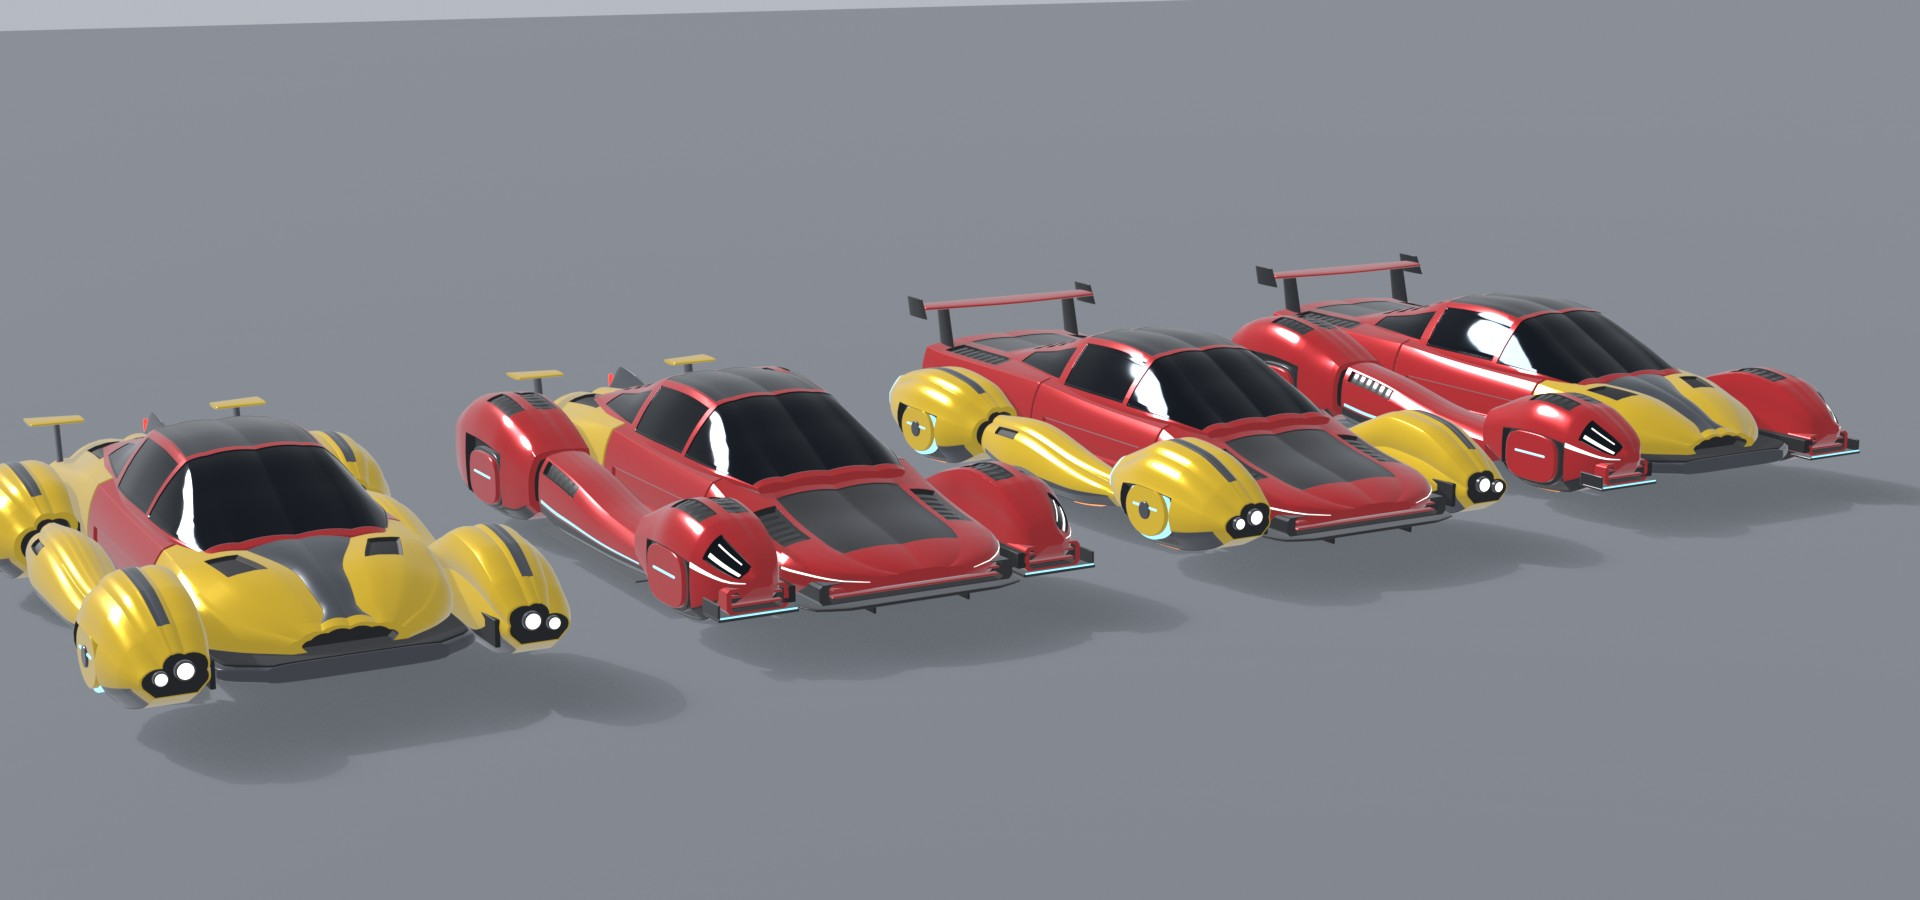
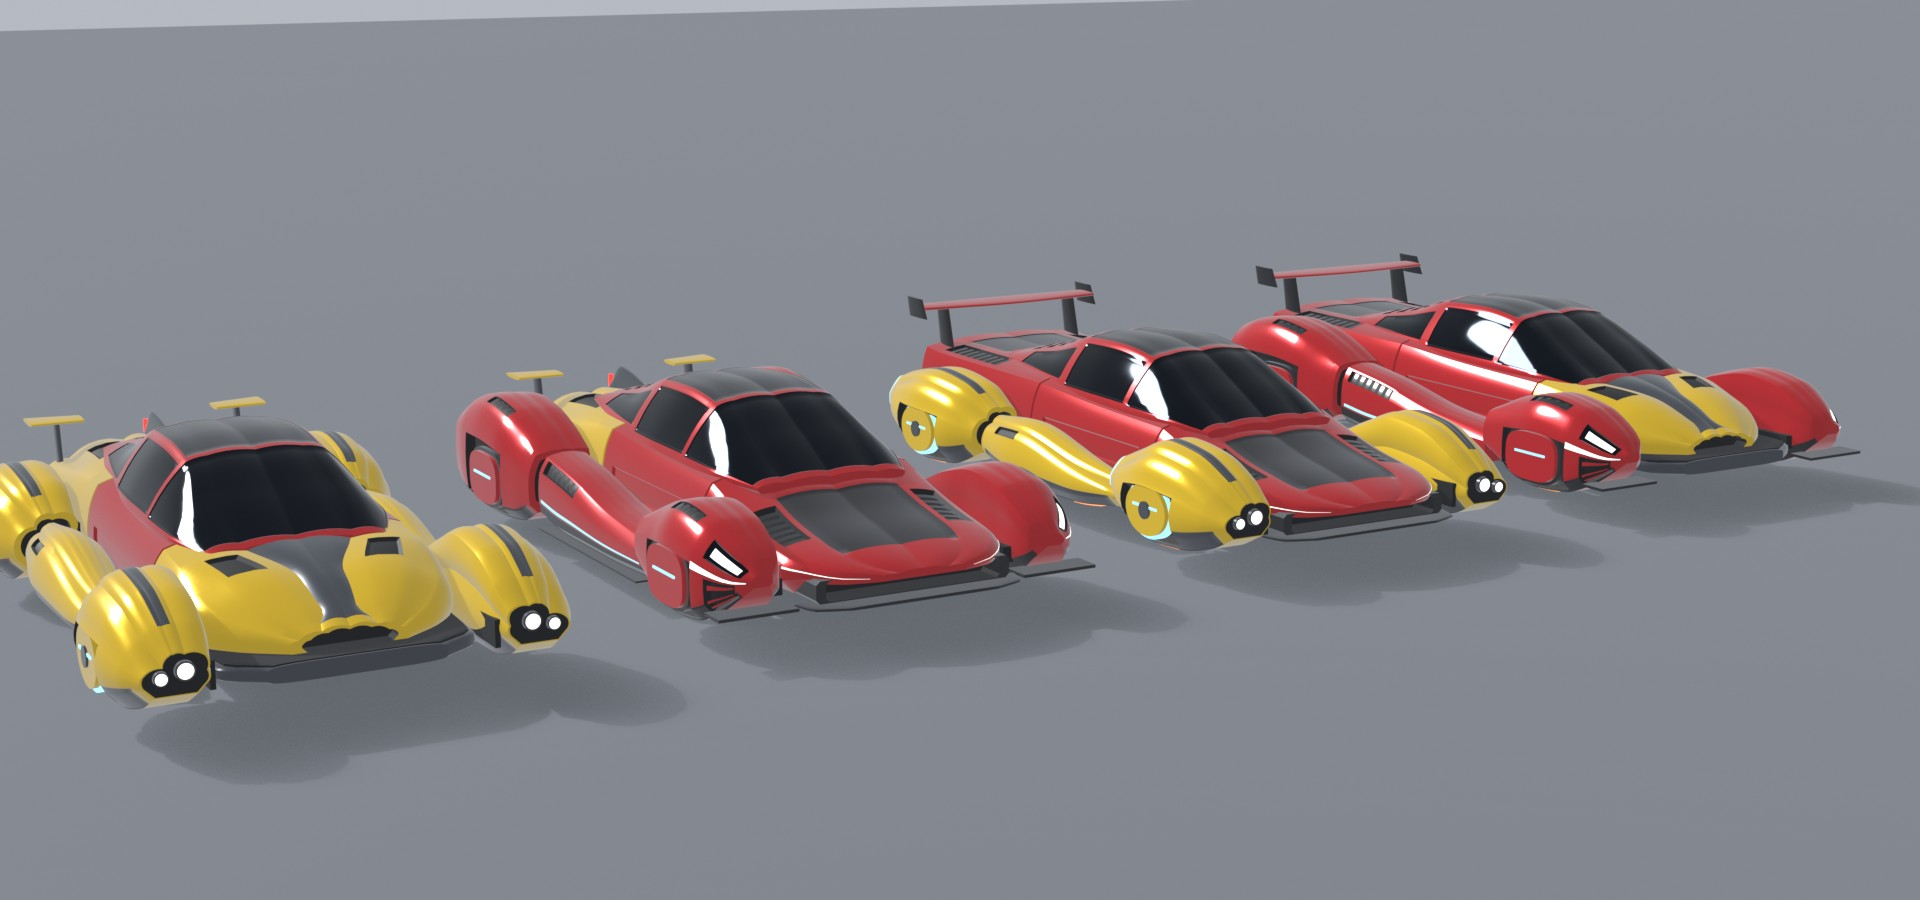
garage: Exotic sharp car - cleaner louvres, deeper front bumper, strakes cut into the fenders
Fender-top louvres are one compact band per fender. Corner strakes are cut into
the fender's lower front instead of bolted on. The prow is thinner and overhangs
an open grille. One bold headlight lens. Edge bevels removed (they rippled
along curved creases).
Blender only: nothing installed in Studio.

diff --git a/scripts/exotic_category/mesh/cars.py b/scripts/exotic_category/mesh/cars.py
@@ -93,9 +93,8 @@ def a_pod(pod, z0, z1, peak, extra=(), arch_slats=0, caps=(False, False)):
     pod.build("skin", "primary", mirror=True, caps=caps, regions=[
         R(z0 + 0.25, z1 - 0.2, 1.0, 2.05, "secondary", 0.02),
         R(peak - 1.7, peak + 1.7, 1.25, 2.92, "detail", 0.35, side=1),
-        R(peak - 1.3, peak + 0.9, 4.25, 5.6, "detail", 0.12), *extra])
-    for side in (1, -1):
-        louvres(pod, f"top{side}", peak - 1.2, peak + 0.8, 4.3, 5.55, 5, side=side)
+        R(peak - 1.2, peak + 0.8, 4.18, 4.92, "detail", 0.12, side=1), *extra])
+    louvres(pod, "top", peak - 1.1, peak + 0.7, 4.24, 4.86, 4, off=-0.05)
     for i in range(4 if arch_slats else 0):
         t = peak + arch_slats * (1.58 - i * 0.13)
         pod.patch(f"arch{i}", t - 0.03, t + 0.03, 1.4, 2.85, "secondary", off=-0.18, mirror=True)
@@ -121,9 +120,9 @@ def car_a():
     # Nose: a rounded prow that leads the car, over a recessed lower grille and a curved splitter.
     # The hood sinks between the fenders and climbs to the cowl.
     K.begin(c, "NOSE")
-    nose = Hull([(-12.6, dict(w=1.5, yb=0.05, yt=0.42, rb=0.1, ys=0.2, tum=0.15, drop=0.08)),
-                 (-12.2, dict(w=2.5, yb=-0.1, yt=0.58, rb=0.2, ys=0.28, tum=0.2, drop=0.12)),
-                 (-11.4, dict(w=3.3, yb=-0.25, yt=0.82, rb=0.3, ys=0.42, tum=0.22, drop=0.2)),
+    nose = Hull([(-12.6, dict(w=1.5, yb=0.2, yt=0.45, rb=0.08, ys=0.3, tum=0.15, drop=0.06)),
+                 (-12.2, dict(w=2.5, yb=0.15, yt=0.6, rb=0.1, ys=0.34, tum=0.2, drop=0.12)),
+                 (-11.4, dict(w=3.3, yb=0.1, yt=0.82, rb=0.15, ys=0.45, tum=0.22, drop=0.2)),
                  (-10.4, dict(w=3.7, yt=1.02, ys=0.5, tum=0.25, drop=0.25)),
                  (-8.5, dict(w=3.8, yt=1.35, ys=0.8, tum=0.3, drop=0.3)),
                  (-6.6, dict(w=3.8, yt=1.85, ys=1.1, tum=0.35, drop=0.3, crown=0.05)), (-5.2, SEAM_F)],
@@ -132,14 +131,11 @@ def car_a():
         R(-12.5, -10.5, 2.86, 3.0, "lights", -0.01),
         R(-11.2, -7.0, 5.0, 6.0, "secondary", 0.03), R(-9.9, -7.4, 4.15, 4.85, "detail", 0.18)])
     louvres(nose, "hood", -9.8, -7.5, 4.2, 4.8, 6, off=-0.1)
-    jaw = rect([(-12.2, {}), (-10.5, {})], 0, 3.3, -0.4, 0.22, c=0.12)
+    jaw = rect([(-12.0, {}), (-10.5, {})], 0, 3.3, -0.4, 0.3, c=0.12)
     jaw.build("jaw", "secondary", caps=(False, True))
-    jaw.throat("grille", "min", lip="secondary", scale=0.9, depth=0.6)
-    for i, y in enumerate((-0.2, 0.02)):
-        box(f"slat{i}", (0, y, -12.05), (5.7, 0.06, 0.3), "primary")
+    jaw.throat("grille", "min", lip="secondary", scale=0.9, depth=1.0)
     Loft([(-12.7, dict(w=2.6)), (-12.35, dict(w=3.5)), (-11.5, dict(w=3.78))], yb=-0.52, yt=-0.42, nt=6,
          nb=6).build("splitter", "secondary")
-    box("keel", (1.6, -0.65, -12.0), (0.08, 0.26, 1.0), "detail", mirror=True)
 
     # Front engines: free-standing fenders with a channel to the body. Rounded prow set back from the
     # nose, slim headlight on its front face under a lid, light blade below, strake intake underneath.
@@ -153,20 +149,15 @@ def car_a():
                 (-6.8, dict(cx=5.12, w=1.2, wi=1.15, yb=-0.9, yt=1.95, ys=1.0)),
                 (-5.4, dict(SIDE_F, yb=-0.1, yt=1.35, ys=0.7, rb=0.2))], **A_POD)
     a_pod(pod, -11.9, -5.4, -8.3, caps=(True, False), extra=[
-        R(-11.65, -10.45, 3.25, 4.7, "glass", 0.1, side=1),
-        R(-11.8, -10.0, 2.84, 2.94, "lights", -0.01, side=1)])
-    pod.patch("lamp0", -11.55, -10.55, 3.45, 3.62, "lights", off=-0.05, mirror=True)
-    pod.patch("lamp1", -11.4, -10.6, 4.1, 4.2, "lights", off=-0.05, mirror=True)
-    duct = rect([(-11.7, {}), (-10.6, {})], 5.05, 1.0, -0.42, 0.35, c=0.12)
-    duct.build("corner", "primary", mirror=True, caps=(False, True))
-    duct.throat("duct", "min", lip="primary", scale=0.84, depth=0.45, mirror=True)
-    for i, y in enumerate((-0.18, 0.1)):
-        box(f"strake{i}", (5.05, y, -11.55), (1.64, 0.07, 0.25), "primary", mirror=True)
+        R(-11.65, -10.45, 3.3, 4.2, "glass", 0.1, side=1),
+        R(-11.6, -10.6, 1.25, 2.72, "detail", 0.22, side=1),
+        R(-11.8, -10.0, 2.82, 2.96, "lights", -0.01, side=1)])
+    pod.patch("lamp", -11.5, -10.6, 3.5, 3.9, "lights", off=-0.05, mirror=True)
+    for i, u in enumerate((1.5, 1.95, 2.4)):
+        pod.patch(f"strake{i}", -11.52, -10.68, u, u + 0.14, "primary", off=-0.06, mirror=True)
     pod.throat("noz", "max", lip="secondary", back="thrust", scale=0.78, depth=0.5, mirror=True)
     box("splitter", (5.15, -0.47, -11.5), (2.6, 0.1, 1.0), "secondary", mirror=True)
-    box("endplate", (6.4, -0.25, -11.4), (0.08, 0.5, 1.1), "secondary", mirror=True)
-    box("edge", (5.15, -0.4, -11.98), (2.5, 0.05, 0.05), "neon", mirror=True)
-    box("channel", (4.02, -0.05, -8.6), (0.42, 0.5, 6.2), "detail", mirror=True)
+    box("channel", (4.02, -0.05, -8.2), (0.42, 0.5, 5.2), "detail", mirror=True)
 
     K.begin(c, "TAIL")
     tail = Hull([(2.8, SEAM_R), (5.5, dict(yt=2.6)), (8.6, dict(yt=2.6, ys=1.5, tum=0.28, drop=0.3)),

diff --git a/scripts/exotic_category/mesh/exokit.py b/scripts/exotic_category/mesh/exokit.py
@@ -22,8 +22,8 @@ import bpy
 PREFIX = "EXO_"
 STATE = {"car": None, "coll": None, "key": None}
 MODS = {}
-SHARP = math.radians(22)
-BEVEL = 0.03
+SHARP = math.radians(26)
+BEVEL = 0.0  # edge bevels switched off: they broke up along gently curving creases
 ET = 0.05  # wall width of a sunk region along the loft axis
 
 # Paint shown in previews. Players repaint primary, secondary and detail in game.
